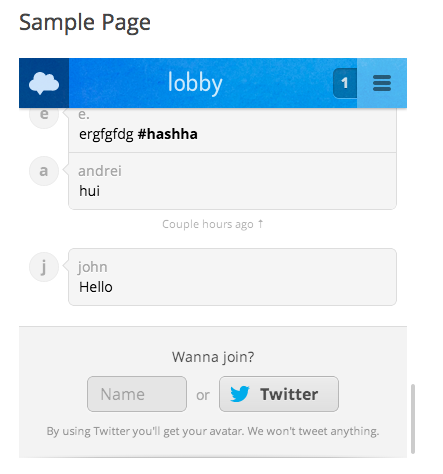
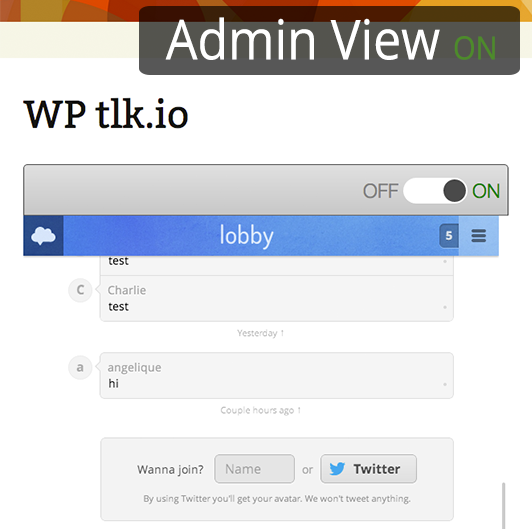
Adding new screenshots, updating admin-bar-note text to be more readable, updating readme to be more ledgable.

diff --git a/css/style.css b/css/style.css
@@ -12,11 +12,11 @@
   position: absolute;
   z-index: 999;
   left: 2%;
-  color: #000;
+  top: 5px;
+  color: #4A4A4A;
   width: 95%;
   font-size: 12px;
   font-family: "helvetica neue";
-  text-shadow: 1px 2px 1px rgba(0, 0, 0, 0.2);
   display: none;
 }
 
